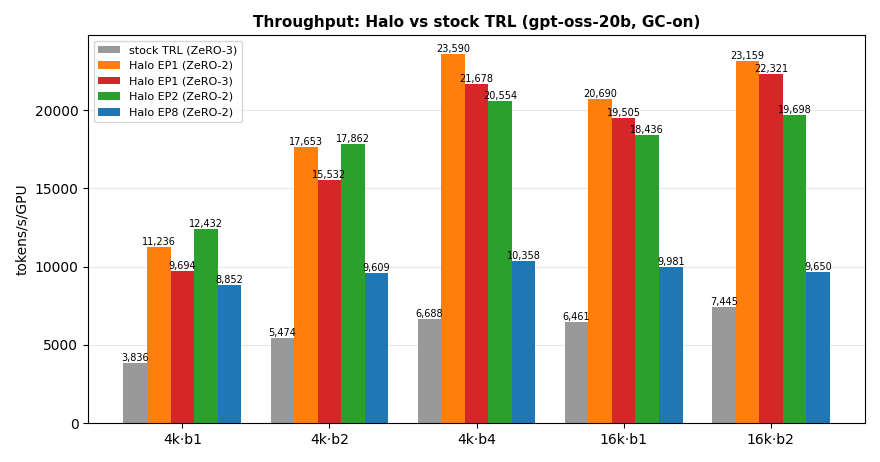
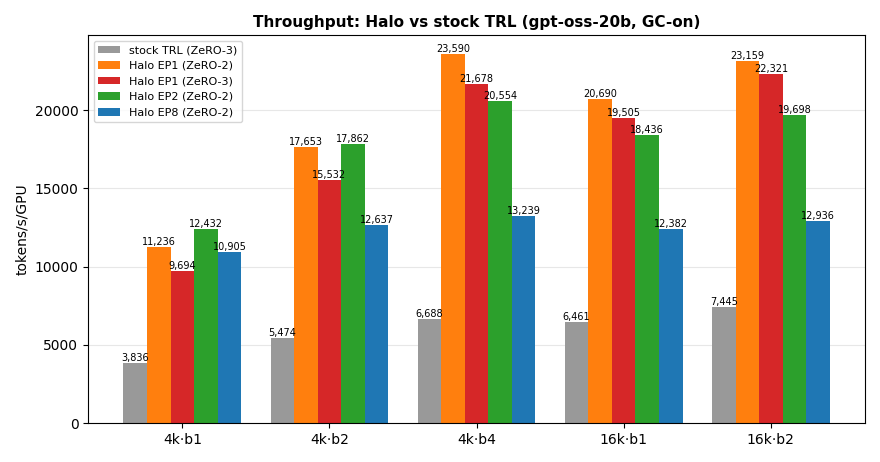
docs: re-measure gpt-oss EP8 figures on the ungated permute

diff --git a/scripts/diagrams/gen_trl_benchmark_charts.py b/scripts/diagrams/gen_trl_benchmark_charts.py
@@ -59,14 +59,14 @@ def throughput_memory_4k16k():
         "Halo EP1 (ZeRO-2)": [11236, 17653, 23590, 20690, 23159],
         "Halo EP1 (ZeRO-3)": [9694, 15532, 21678, 19505, 22321],
         "Halo EP2 (ZeRO-2)": [12432, 17862, 20554, 18436, 19698],
-        "Halo EP8 (ZeRO-2)": [8852, 9609, 10358, 9981, 9650],
+        "Halo EP8 (ZeRO-2)": [10905, 12637, 13239, 12382, 12936],
     }
     mem = {
         "stock TRL (ZeRO-3)": [47.6, 48.2, 50.6, 50.6, 55.6],
         "Halo EP1 (ZeRO-2)": [60.3, 65.5, 75.8, 75.8, 96.5],
         "Halo EP1 (ZeRO-3)": [28.7, 29.3, 37.9, 37.9, 58.6],
         "Halo EP2 (ZeRO-2)": [78.9, 80.5, 85.2, 85.0, 112.0],
-        "Halo EP8 (ZeRO-2)": [25.4, 32.3, 47.2, 48.1, 78.0],
+        "Halo EP8 (ZeRO-2)": [25.5, 33.2, 48.2, 49.0, 80.3],
     }
     for data, ylabel, title, fname, fmt in [
         (

diff --git a/skills/optimize/levers.md b/skills/optimize/levers.md
@@ -3,7 +3,8 @@
 Headline metric is **tokens/s/GPU** (real, non-padding tokens). MFU% and achieved-TFLOPS are opt-in
 diagnostics from `EfficiencyCallback`; MFU% is **not** comparable across GPUs (peak denominator differs —
 use tok/s/GPU or achieved TFLOPS for that). Each figure below carries the shape it was measured at (Blackwell);
-most come from the 2026-10-03 run set (commit 0bc3a22a5, Blackwell image); the source page gives each row's run.
+most come from the 2026-10-03 run set (commit 0bc3a22a5) and the gpt-oss-20b EP8 figures from 2026-10-05
+(commit 0e9a51172), both on the Blackwell image; the source page gives each row's run.
 **Measure every EP/MoE throughput number at batch ≥ 4** — batch 1 is comm-bound and run-to-run noisy.
 
 This page is the single home for this skill's figures. Every number names its source page, relative to
@@ -14,15 +15,15 @@ wins.
 
 | Lever | When to use | Measured effect (doc) | YAML flag / env var | Caveat |
 |---|---|---|---|---|
-| **Grouped GEMM** | Any MoE on SM90+ (auto) | **2.56×** e2e at b4 (4.58× at b1) (Qwen3-30B-A3B EP=2, 2× B300, s8192, GC on); isolated kernel forward ≈**10.2×** (grouped-gemm.md) | `use_grouped_gemm` (default `true`); at `ep_size=1` on a MoE model it still applies the EP wrappers (grouped-GEMM-only mode) | Measure at b≥4 (b1 comm-bound). The loop never measures faster; its gap is smallest at ep8 (4 local experts): grouped +10% at b1, +4.4% at b4 (gpt-oss-20b, s8192). GptOss ETP falls back to loop. |
+| **Grouped GEMM** | Any MoE on SM90+ (auto) | **2.56×** e2e at b4 (4.58× at b1) (Qwen3-30B-A3B EP=2, 2× B300, s8192, GC on); isolated kernel forward ≈**10.2×** (grouped-gemm.md) | `use_grouped_gemm` (default `true`); at `ep_size=1` on a MoE model it still applies the EP wrappers (grouped-GEMM-only mode) | Measure at b≥4 (b1 comm-bound). The loop never measures faster; its gap is smallest at ep8 (4 local experts): grouped +34% at b1, +31% at b4 (gpt-oss-20b, s8192). GptOss ETP falls back to loop. |
 | **Liger CE + RMSNorm/RoPE/SwiGLU** | All training (auto) | Dense **+36% tok/s, −14 GiB** (Qwen3-8B s16k b1); MoE **+39%, −28 GiB** (Qwen3-30B-A3B EP=2 s8192 b4, 2× B300) (liger-kernels.md) | `use_liger_kernel` (default `true`); `liger_kernel_config` per-kernel | Qwen3 MoE, GLM-4.7-Flash, GPT-OSS and Gemma 4 fill the RMSNorm role with torch's fused `F.rms_norm`. SwiGLU/GeGLU auto-OFF where an EP wrapper replaces the only module the applier's GLU patch swaps (upstream-covered families); a toolkit spec naming the dense and shared-expert MLPs keeps it. Liger's fused MoE kernel never runs routed experts: upstream's `swiglu` is forced OFF (even when requested) on a MoE whose experts Halo does not wrap (`ep_size: 1` + `use_grouped_gemm: false`, or no EP layer class). CE and FLCE force-OFF under TP, CP and PP. |
 | **FusedLinearCrossEntropy (FLCE)** | Long-seq OOM at the loss | **−24.3 GB forward at 32k** (Qwen3-8B, 32.2 vs 56.5 GB; ~2.5 GB at 8k); on Qwen3-30B-A3B EP=2 s8192 b4 only −1.5 GiB beyond CE at −5% throughput (liger-kernels.md) | `liger_kernel_config: {cross_entropy: false, fused_linear_cross_entropy: true}` | SFT-only; `logits=None` (no entropy logging); not CP-compatible; OK under EP MoE families + TP-off. |
-| **FA4 (Blackwell attention)** | Any Blackwell run (auto) | Dense **1.19× (s4k) → 1.88× (s16k) → 2.33× (s32k)** vs FA2 (Qwen3-4B b1); MoE **+14%** e2e (gpt-oss-20b ep8 s16k); isolated kernel 3.6–3.9× (flash-attention.md) | auto (`_detect_attention_impl`); override `attn_implementation` | Beta — validate accuracy-sensitive runs. Qwen3.5/3.6, Qwen3-Next and GLM-4 MoE Lite auto-fall-back to SDPA (FA4 backward NaN grads). Hopper keeps FA2+FA3. |
+| **FA4 (Blackwell attention)** | Any Blackwell run (auto) | Dense **1.19× (s4k) → 1.88× (s16k) → 2.33× (s32k)** vs FA2 (Qwen3-4B b1); MoE **+17%** e2e (gpt-oss-20b ep8 s16k); isolated kernel 3.6–3.9× (flash-attention.md) | auto (`_detect_attention_impl`); override `attn_implementation` | Beta — validate accuracy-sensitive runs. Qwen3.5/3.6, Qwen3-Next and GLM-4 MoE Lite auto-fall-back to SDPA (FA4 backward NaN grads). Hopper keeps FA2+FA3. |
 | **Packing (variable-length data)** | avg seq << max_length | **14.5×** at ~75% padding waste (Qwen3-30B-A3B EP=2, b2, FA2) (padding-free-collator.md) | `packing: true` (mutually exclusive with `padding_free`); `packing_strategy: bfd` | No benefit when avg ≈ max_length (all collators tie ~1%). Rejected under CP — take the padded collator (`pad_to_multiple_of=cp_size`) there. |
 | **Padding-free collator** | Want to skip padding FLOPS but not cross-seq packing | **4.5×** real-throughput at ~75% waste, same shape as the packing row (padding-free-collator.md) | `padding_free: true` + a varlen attention impl (`flash_attention_2/3/4`) | NOT CP-compatible; smaller win than packing; a non-varlen impl (SDPA, eager, flex) is refused. SFT + SMPO only. |
-| **Gradient checkpointing OFF** | Batch/seq fits un-checkpointed | **1.30×** (gpt-oss-20b ep8 b4 s4096: 13,489 vs 10,358 tok/s/GPU); **+26–31%** across the ep8 b1 sequence sweep (4k–32k); ~2× memory (throughput-benchmarks.md) | `gradient_checkpointing: false` | Only when activations fit (ep8 b1 GC-off reaches s32k at 200 GiB on the elastic default). Keep ON for long seq / big batch / FSDP. |
+| **Gradient checkpointing OFF** | Batch/seq fits un-checkpointed | **1.29×** (gpt-oss-20b ep8 b4 s4096: 17,018 vs 13,239 tok/s/GPU); **+25–32%** across the ep8 b1 sequence sweep (4k–32k); ~2× memory (throughput-benchmarks.md) | `gradient_checkpointing: false` | Only when activations fit (ep8 b1 GC-off reaches s32k at 159 GiB on the elastic default). Keep ON for long seq / big batch / FSDP. |
 | **Push seq × batch** | EP throughput at low token counts | Batch is the dominant EP lever: **qwen3.5-35b ep2 b1→b4 = 2.5×** (6,692 → 16,447 tok/s/GPU, s4096; ep8 b1→b4 = 1.8×); read TFLOPS not MFU% (throughput-benchmarks.md) | raise `per_device_train_batch_size`, then `gradient_accumulation_steps`, then `max_length` | Bounded by memory; use GC / FLCE / EP degree to make room. |
-| **Min EP degree that fits** | Pure EP, choosing size | Fewer EP ranks = more local params + larger expert GEMMs; gpt-oss-20b ep1 dense FSDP tops the TFLOPS table (**3,673** nominal TFLOPS / 28,700 tok/s/GPU at b4 s4096 GC-off, vs ep8 **349** / 10,007 at b2 s16384) (throughput-benchmarks.md) | `--expert_parallel_size`; use **ep2 or ep8** on 8 GPUs (gpt-oss-20b: ep8 keeps ~4.2B params local vs ep2 ~11.4B) | **ep4 is rejected at config time** on 8 GPUs — multi-group >2-rank pure EP within one NVLink domain would race the DeepEP combine (ep4 on 4 GPUs is fine). Finer expert sharding on 8 GPUs → **EP+ETP** (`ep4+etp2`), not EP+TP. Rule and mechanism: the `parallelism` skill (`matrix.md`, row *Multi-group >2-rank EP on one NVLink domain*). |
+| **Min EP degree that fits** | Pure EP, choosing size | Fewer EP ranks = more local params + larger expert GEMMs; gpt-oss-20b ep1 dense FSDP tops the TFLOPS table (**3,673** nominal TFLOPS / 28,700 tok/s/GPU at b4 s4096 GC-off, vs ep8 **451** / 12,936 at b2 s16384) (throughput-benchmarks.md) | `--expert_parallel_size`; use **ep2 or ep8** on 8 GPUs (gpt-oss-20b: ep8 keeps ~4.2B params local vs ep2 ~11.4B) | **ep4 is rejected at config time** on 8 GPUs — multi-group >2-rank pure EP within one NVLink domain would race the DeepEP combine (ep4 on 4 GPUs is fine). Finer expert sharding on 8 GPUs → **EP+ETP** (`ep4+etp2`), not EP+TP. Rule and mechanism: the `parallelism` skill (`matrix.md`, row *Multi-group >2-rank EP on one NVLink domain*). |
 | **AdamWBF16 + stochastic rounding** | Any bf16 training (auto) | **6 B/param** (vs 12 fp32 AdamW); step −49% vs `adamw_torch_fused`; loss gap to fp32 master ~8e-5 (~5× tighter than weight-only SR) (bf16-optimizer.md) | auto from `bf16: true` | Auto-enable skipped under accelerate-managed replicated DDP — a conservative default outside the validated FSDP/EP/TP/HSDP matrix, not a correctness limit (the SR seed is rank-identical, so replicated params round the same way); `bf16_optimizer: true` opts in. |
 | **fp32_grad_reduce** | Many-rank / multi-node | ~**2.2×** tighter grad-reduce at world=8 (0.37%→0.17% error); grows with scale (bf16-optimizer.md) | `fp32_grad_reduce: true` | Keeps 6 B/param storage; ~2× cost on the reduce-scatter/all-reduce only. Off by default. `fp32_non_ep_params` puts the FSDP2 reduce in fp32 too; the EP/TP/QLoRA bucketed reduces follow this flag alone. |
 | **Deferred FSDP2 gradient reduce** | `gradient_accumulation_steps > 1` with memory headroom; slow inter-node fabric | Packed SFT, 4k b2 GA4 GC on: Qwen3-8B **+5.0%** on 8× B300 NVLink (**+9.3%** with `fsdp_reshard_after_backward: false`), **+9%** DP / **+13%** HSDP across 2 nodes over EFA, **+52%** on TCP sockets; Qwen3-30B-A3B ep1 **+12.4%** (../parallelism/data-parallelism.md) | `fsdp_defer_grad_sync: true` | Holds one unsharded gradient copy per GPU across the window: Qwen3-8B +13.4 GiB peak, ep1 Qwen3-30B-A3B +50 GiB (every expert). torchrun FSDP2 only; rejected under PP, TP at `data_parallel_size==1`, QLoRA, and ZeRO-3 (`fsdp_reshard_after_forward: true` — defer under ZeRO-2). Nothing at GA 1. |

diff --git a/agent-docs/optimization/halo-vs-stock-trl.md b/agent-docs/optimization/halo-vs-stock-trl.md
@@ -27,7 +27,7 @@ The baseline gets the strongest stock options — ZeRO-3 and Liger's FLCE, which
 
 ## Throughput & memory (4k–16k)
 
-*8× B300 · 2026-10-03 (stock TRL 2026-10-04, mean of 2 runs) · commit 0bc3a22a5 · Blackwell image. GC-on · grouped GEMM · TRL ZeRO-3 · Halo ZeRO-2 (EP1 also at ZeRO-3) · elastic.* **tok/s/GPU · peak GiB:**
+*8× B300 · 2026-10-03 at commit 0bc3a22a5 (stock TRL 2026-10-04, mean of 2 runs; Halo EP8 2026-10-05 at commit 0e9a51172, median of 2) · Blackwell image. GC-on · grouped GEMM · TRL ZeRO-3 · Halo ZeRO-2 (EP1 also at ZeRO-3) · elastic.* **tok/s/GPU · peak GiB:**
 
 ![Throughput: Halo vs stock TRL, 4k/16k](../assets/benchmarks/throughput_4k16k.png)
 
@@ -35,16 +35,16 @@ The baseline gets the strongest stock options — ZeRO-3 and Liger's FLCE, which
 
 | seq·b | stock TRL (z3) | Halo EP1 (z2) | Halo EP1 (z3) | Halo EP2 (z2) | Halo EP8 (z2) |
 |---|---|---|---|---|---|
-| 4k·b1 | 3,836 · 47.6 | 11,236 · 60.3 | 9,694 · **28.7** | **12,432 · 78.9** | 8,852 · 25.4 |
-| 4k·b2 | 5,474 · 48.2 | 17,653 · 65.5 | 15,532 · **29.3** | **17,862 · 80.5** | 9,609 · 32.3 |
-| 4k·b4 | 6,688 · 50.6 | **23,590 · 75.8** | 21,678 · 37.9 | 20,554 · 85.2 | 10,358 · 47.2 |
-| 16k·b1 | 6,461 · 50.6 | **20,690 · 75.8** | 19,505 · 37.9 | 18,436 · 85.0 | 9,981 · 48.1 |
-| 16k·b2 | 7,445 · 55.6 | **23,159 · 96.5** | 22,321 · 58.6 | 19,698 · 112.0 | 9,650 · 78.0 |
+| 4k·b1 | 3,836 · 47.6 | 11,236 · 60.3 | 9,694 · **28.7** | **12,432 · 78.9** | 10,905 · 25.5 |
+| 4k·b2 | 5,474 · 48.2 | 17,653 · 65.5 | 15,532 · **29.3** | **17,862 · 80.5** | 12,637 · 33.2 |
+| 4k·b4 | 6,688 · 50.6 | **23,590 · 75.8** | 21,678 · 37.9 | 20,554 · 85.2 | 13,239 · 48.2 |
+| 16k·b1 | 6,461 · 50.6 | **20,690 · 75.8** | 19,505 · 37.9 | 18,436 · 85.0 | 12,382 · 49.0 |
+| 16k·b2 | 7,445 · 55.6 | **23,159 · 96.5** | 22,321 · 58.6 | 19,698 · 112.0 | 12,936 · 80.3 |
 
 - **EP1 and EP2 lead at 2.6–3.5× stock TRL** across every short/mid config, and the gap holds under batch
-  scaling. EP8 gains least from batch (4k: 8,852 → 10,358 tok/s/GPU from b1 to b4) and loses at 16k
-  (9,981 → 9,650 from b1 to b2): its dispatch cost grows with tokens/rank.
-- **EP8 trades throughput for memory** — 1.3–2.3× TRL at ~½ its memory (25.4 vs 47.6 GiB at 4k·b1).
+  scaling. EP8 gains least from batch (4k: 10,905 → 13,239 tok/s/GPU from b1 to b4; 16k: +4.5% from b1
+  to b2): its dispatch cost grows with tokens/rank.
+- **EP8 trades throughput for memory** — 1.7–2.8× TRL at ~½ its memory (25.5 vs 47.6 GiB at 4k·b1).
 - **EP1 z3 isolates the framework gap** to AdamWBF16 + Halo's FSDP2+EP wrapper: both sides shard every
   param 8-way with the same kernel, and EP1 still leads 2.5× (4k·b1) to 3.2× (4k·b4) on throughput, and
   on memory everywhere but 16k·b2 (58.6 vs 55.6 GiB). **Prefer z2 at short sequence, z3 when memory-tight.**
@@ -59,15 +59,15 @@ experts through `torch.nn.functional.grouped_mm`). The per-expert loop is opt-in
 (`--experts_impl eager`, i.e. transformers' `experts_implementation`, for TRL; `--no_grouped_gemm` for
 Halo).
 
-*8× B300 · 2026-10-03 · commit 0bc3a22a5 · Blackwell image. 4k·b1 · GC-on · Halo z2* — tok/s/GPU:
+*8× B300 · 2026-10-03 · commit 0bc3a22a5 (EP8 row 2026-10-05 · commit 0e9a51172) · Blackwell image. 4k·b1 · GC-on · Halo z2* — tok/s/GPU:
 
 | | per-expert loop | grouped GEMM | uplift |
 |---|---|---|---|
 | Halo EP1 (32 experts/rank) | 6,005 | 11,236 | +87% |
 | Halo EP2 (16/rank) | 6,508 | 12,432 | +91% |
-| Halo EP8 (4/rank) | 7,521 | 8,852 | +18% |
+| Halo EP8 (4/rank) | 7,514 | 10,905 | +45% |
 
-The uplift shrinks once a rank holds few experts (+18% at EP8, where the loop's per-shape tile fits the
+The uplift shrinks once a rank holds few experts (+45% at EP8, where the loop's per-shape tile fits the
 larger per-expert `M`). **EP token distribution is the bigger lever** — Halo's *loop* at EP1 (6,005)
 already beats TRL's `grouped_mm` (3,836). Kernel-side detail:
 [Grouped GEMM](grouped-gemm.md#grouped-vs-the-loop-path).
@@ -100,20 +100,19 @@ already 16–32k, so FLCE is within noise (≤1%): it is a dense-path lever. Per
 
 ## Gradient checkpointing on vs off
 
-GC-off buys Halo **+11–31%** at up to 2.2× peak memory (EP8 z2 16k·b1: 48.1 → 103.7 GiB). Stock TRL gains
-only +5–6%, so Halo's lead widens GC-off.
+GC-off buys Halo **+11–32%** at up to 2× peak memory (EP8 z2 16k·b1: 49.0 → 96.4 GiB). Stock TRL gains
+only +5–9%, so Halo's lead widens GC-off.
 
-*8× B300 · 2026-10-03 · commit 0bc3a22a5 · Blackwell image. b1 · GC-off, tok/s/GPU (the GC-on
+*8× B300 · 2026-10-03 · commit 0bc3a22a5 (Halo EP8 2026-10-05 · commit 0e9a51172) · Blackwell image. b1 · GC-off, tok/s/GPU (the GC-on
 baseline is the 4k–16k table above):*
 
 | seq | stock TRL (z3) | Halo EP1 (z2) | Halo EP2 (z2) | Halo EP8 (z2) |
 |---|---|---|---|---|
-| 4k | 4,048 | 12,484 | 14,988 | 11,563 |
-| 16k | 7,010 | 25,395 | 22,729 | 12,531 |
+| 4k | 4,048 | 12,484 | 14,988 | 13,885 |
+| 16k | 7,010 | 25,395 | 22,729 | 16,335 |
 
-It is a 4k–32k lever only: EP8 32k·b1 GC-off trains on the default elastic transport, but its 199.7 GiB
-peak already crowds a B300's 288 GB (268 GiB)
-([Throughput Benchmarks](throughput-benchmarks.md#where-the-ep-steps-time-goes-gpt-oss-20b-ep8-b1s4096-8-b300-fa4)),
+It is measured as a 4k–32k lever: EP8 32k·b1 GC-off trains on the default elastic transport at a 159.4 GiB
+peak ([Throughput Benchmarks](throughput-benchmarks.md#where-the-ep-steps-time-goes-gpt-oss-20b-ep8-b1s4096-8-b300-fa4)),
 and past ~64k tokens/rank nothing fits GC-off.
 
 ## Long context: 64k → 256k
@@ -198,10 +197,12 @@ CP needs `cp_size` to divide Qwen's 4 KV heads, so 64k splits with EP8+CP4. Dens
 ## Convergence
 
 200 steps on the same seeded data, same global batch (16), constant LR; 8× B300, 2026-10-03, commit
-0bc3a22a5, Blackwell image. Stock TRL (ZeRO-3), Halo dense (EP1), Halo EP2 and Halo EP8 all reach
-the same loss — **~0.00205 at step 200** (0.002048–0.002051), within 0.6% of each other by step 100. Expert
-Parallelism, grouped GEMM, and AdamWBF16 stochastic rounding preserve the optimization dynamics, so the
-throughput lead costs nothing.
+0bc3a22a5 (Halo EP8 2026-10-05, commit 0e9a51172, median of four runs), Blackwell image. Stock TRL
+(ZeRO-3), Halo dense (EP1), Halo EP2 and Halo EP8 all reach the same loss — **~0.00205 at step 200**
+(0.002048–0.002051), within 0.8% of each other by step 100. One of the four EP8 runs took a loss spike at
+step 5 and was still 35% higher at step 100, reaching 0.002052 by step 200. Expert Parallelism, grouped
+GEMM, and AdamWBF16 stochastic rounding preserve the optimization dynamics, so the throughput lead costs
+nothing.
 
 ## Reproduce
 

diff --git a/human-docs/performance.md b/human-docs/performance.md
@@ -5,25 +5,25 @@ do nothing at MoE shapes.
 
 ## Rough numbers
 
-Measured 2026-10-03 on B300 (Blackwell) at commit 0bc3a22a5 with the
-Blackwell image, bf16, Liger and grouped GEMM on, Flash Attention 4 where the
-family takes it (Qwen3.5 falls back to SDPA). Tokens per second per GPU, so a
-number scales by the GPU count:
+Measured 2026-10-03 on B300 (Blackwell) at commit 0bc3a22a5 (the GPT-OSS `ep8`
+rows 2026-10-05 at commit 0e9a51172) with the Blackwell image, bf16, Liger and
+grouped GEMM on, Flash Attention 4 where the family takes it (Qwen3.5 falls back
+to SDPA). Tokens per second per GPU, so a number scales by the GPU count:
 
 | Model | Shape | tok/s/GPU |
 | --- | --- | --- |
 | Qwen3-4B dense | 1 GPU, batch 16 × 2048, no checkpointing | 41,000 |
 | GPT-OSS 20B | 8 GPUs, `ep1`, batch 4 × 4096, no checkpointing | 28,700 |
 | Qwen3.5-35B-A3B | 8 GPUs, `ep2`, batch 4 × 4096, checkpointing on | 16,400 |
-| GPT-OSS 20B | 8 GPUs, `ep8`, batch 4 × 4096, checkpointing on | 10,400 |
-| GPT-OSS 20B, 32k context | 8 GPUs, `ep8 + cp8`, checkpointing on | 7,600 |
+| GPT-OSS 20B | 8 GPUs, `ep8`, batch 4 × 4096, checkpointing on | 13,200 |
+| GPT-OSS 20B, 32k context | 8 GPUs, `ep8 + cp8`, checkpointing on | 9,000 |
 
 Two things to read out of that table. Expert parallelism costs throughput — at
-batch 4, 4k and checkpointing on for both, `ep1` runs about 2.3× `ep8` on the same
-model (23,590 vs 10,358 tok/s/GPU; the `ep1` row above has checkpointing off) —
+batch 4, 4k and checkpointing on for both, `ep1` runs about 1.8× `ep8` on the same
+model (23,590 vs 13,239 tok/s/GPU; the `ep1` row above has checkpointing off) —
 because it trades local parameters for all-to-all traffic, so pick the
 *lowest* EP that fits rather than the largest your GPUs allow. And context parallelism is a way to afford a
-long sequence, not a way to go faster: it holds memory to 24–42 GiB from 16k to
+long sequence, not a way to go faster: it holds memory to 25–42 GiB from 16k to
 64k tokens and buys no speed. Sharding buys capacity — a 119B MoE trains on four
 GPUs at `ep2 + etp2` — and you pay for it in tokens per second.
 
@@ -36,11 +36,11 @@ latency-bound and the GPUs are waiting, not computing. Turn on
 
 | Lever | What it buys |
 | --- | --- |
-| Bigger `M` — raise `per_device_train_batch_size` or `max_length` | the single largest effect; batch 1 → 4 at 4k is 1.2–2.5× on MoE, least at high EP, and at 16k `ep8` loses throughput under batch (its dispatch grows with tokens per rank). Fill the global batch with `gradient_accumulation_steps`, not more parallelism |
-| `gradient_checkpointing: false` when activations fit | +30% on GPT-OSS `ep8` at 4k, at roughly double the peak memory |
+| Bigger `M` — raise `per_device_train_batch_size` or `max_length` | the single largest effect; batch 1 → 4 at 4k is 1.2–2.5× on MoE, least at high EP, and at 16k `ep8` gains only ~5% from batch 2 (its dispatch grows with tokens per rank). Fill the global batch with `gradient_accumulation_steps`, not more parallelism |
+| `gradient_checkpointing: false` when activations fit | +29% on GPT-OSS `ep8` at 4k, at about 1.8× the peak memory |
 | `packing: true` | 14.5× on a corpus averaging a quarter of `max_length` (`padding_free: true`: 4.5×); nothing when rows already fill it |
 | `use_grouped_gemm: true` (default on SM90+) | 2.6–4.6× end-to-end on Qwen3-30B-A3B at `ep2` (2× B300, 8k, batch 4 to 1) — one batched expert matmul instead of a loop |
-| Flash Attention 4 (auto on Blackwell) | 1.2× FA2 at 4k rising to 2.3× at 32k on dense; ~+14% on MoE, where all-to-all dominates |
+| Flash Attention 4 (auto on Blackwell) | 1.2× FA2 at 4k rising to 2.3× at 32k on dense; ~+17% on MoE, where all-to-all dominates |
 | `use_liger_kernel: true` (default) | +39% and 28 GiB on Qwen3-30B-A3B at `ep2` (2× B300, 8k, batch 4), +6.6% on Qwen3.5-35B-A3B; add `liger_kernel_config: {fused_linear_cross_entropy: true}` past ~16k tokens, which trades 7–20% of speed for 14–30 GiB on GPT-OSS `ep1` (the cost shrinks as the sequence grows) |
 | `AdamWBF16` (automatic with `bf16: true`) | weights and optimizer state in 6 bytes/param where fp32-state AdamW needs 12, and about half the step time of `adamw_torch_fused` |
 | `fsdp_defer_grad_sync: true` and `fsdp_reshard_after_backward: false`, with `gradient_accumulation_steps > 1` | one gradient reduce and one parameter re-gather per optimizer step instead of per microstep. On one 8-GPU node the deferred reduce gives +5% on Qwen3-8B (+9% with both knobs) and +12% on Qwen3-30B-A3B at `ep_size: 1`; across two nodes over EFA it gives +9–13% on its own. Each keeps an unsharded copy per GPU (Qwen3-8B: +13 GiB for the gradients). The config refuses both under `fsdp_reshard_after_forward: true` (ZeRO-3). [Details](../agent-docs/parallelism/data-parallelism.md) ↗ |
@@ -80,9 +80,9 @@ all 20.7B parameters every micro-step, a fixed cost a short step cannot hide,
 while its AdamW keeps 12 bytes per parameter of fp32 state where `AdamWBF16`
 keeps 6. At the same ZeRO-3 sharding and expert kernel, dense Halo still leads
 2.5–3.2×. The `ep8` shape trades some of that speed back for memory:
-1.3–2.3× TRL at about half its footprint. None of it costs convergence — TRL,
+1.7–2.8× TRL at about half its footprint. None of it costs convergence — TRL,
 dense Halo, `ep2` and `ep8` reach the same loss over 200 seeded steps, within
-0.6% of each other by step 100.
+0.8% of each other by step 100.
 
 ## Going deeper
 

diff --git a/agent-docs/optimization/grouped-gemm.md b/agent-docs/optimization/grouped-gemm.md
@@ -20,20 +20,20 @@ Grouped collapses those to `P` nodes (Qwen3.6: 256×2=512 → 2), so far fewer s
 
 `use_grouped_gemm: false` runs the per-expert loop. Grouped wins every measured cell below; what narrows its lead:
 
-**1. Few local experts per rank (primary lever).** Grouped's advantage is fusing launches across a rank's `num_experts / ep_size` local experts. Many (low EP) → large saving. Few (high EP) → a small one, since the loop's per-shape CUTLASS tile fits each expert's actual per-expert `M`.
+**1. Few local experts per rank (primary lever).** Grouped's advantage is fusing launches across a rank's `num_experts / ep_size` local experts. Many (low EP) → large saving. Few (high EP) → a smaller one, since the loop's per-shape CUTLASS tile fits each expert's actual per-expert `M`.
 
 Per-expert `M = ep_size × tokens_per_rank × top_k / num_experts`: tokens pool across the dispatch group, so per-rank rows `tokens_per_rank × top_k` are EP-invariant and M grows with `ep_size`. M modulates the trend: `grouped_mm` runs one shared ~128-wide M tile for all groups, so its edge is largest at small M and erodes as M grows.
 
-gpt-oss-20b (32 experts, top-4, seq 8192, 8× B300, FA4, GC on), grouped vs loop, plus Qwen3-30B-A3B (128 experts, ep2 → 64 local/rank; 2× B300, seq 8192, GC on: 14,536 vs 3,176 tok/s/GPU at b1, 18,956 vs 7,415 at b4) as the high-local-count anchor. Measured 2026-10-03 at commit 0bc3a22a5 on the Blackwell image, except the Qwen3.5 row (v1.0.0):
+gpt-oss-20b (32 experts, top-4, seq 8192, 8× B300, FA4, GC on), grouped vs loop, plus Qwen3-30B-A3B (128 experts, ep2 → 64 local/rank; 2× B300, seq 8192, GC on: 14,536 vs 3,176 tok/s/GPU at b1, 18,956 vs 7,415 at b4) as the high-local-count anchor. Measured 2026-10-03 at commit 0bc3a22a5 on the Blackwell image, except the gpt-oss-20b ep8 row (2026-10-05, commit 0e9a51172, median of 2) and the Qwen3.5 row (v1.0.0):
 
 | Model | EP | local experts/rank | b1 | b2 | b4 |
 |---|----|:------------------:|:---:|:---:|:---:|
 | gpt-oss-20b | ep2 | 16 | grouped +78% | — | +41% |
-| gpt-oss-20b | ep8 | 4 | grouped +10% | +7.1% | +4.4% |
+| gpt-oss-20b | ep8 | 4 | grouped +34% | +34% | +31% |
 | Qwen3-30B | ep2 | 64 | grouped +358% | — | +156% |
 | Qwen3.5-35B | ep2 | 128 | — | — | grouped +137% |
 
-Local-expert *count* is the primary lever; batch (per-expert M) shrinks the margin. **Rule: keep grouped (the default); at these shapes the loop is never faster, and the gap narrows only at high EP with large batches.** The roofline reasoning is in [GPU Training Theory §2](../reference/gpu-training-theory.md#worked-example--why-small-per-expert-m-is-slow).
+Local-expert *count* is the primary lever; batch (per-expert M) shrinks the margin. **Rule: keep grouped (the default); at these shapes the loop is never faster, and the gap is smallest at high EP with large batches (+31% at ep8 b4).** The roofline reasoning is in [GPU Training Theory §2](../reference/gpu-training-theory.md#worked-example--why-small-per-expert-m-is-slow).
 
 The 288-expert rosters (GLM-5.3-Flash, Step-3.7-Flash; top-8) sit inside the grouped-wins regime too, between the measured anchors: `ep8` holds 36 local experts at per-expert M = 1,820 (8192 tokens/rank) to 7,282 (32k), `ep16` 18 at 3,641 (8192 — the cross-node ceiling). Derived from the table, not measured.
 

diff --git a/agent-docs/optimization/flash-attention.md b/agent-docs/optimization/flash-attention.md
@@ -70,7 +70,7 @@ The end-to-end step win is a function of attention's share of the step, which gr
 
 At 4k batch-1 the step is overhead-bound, so FA4 stays close to FA2 (1.19×); the gap opens with length and reaches 2.3× at 32k. SDPA (Blackwell-tuned cuDNN kernel) leads FA4 by 9% at 4k and is within 3% of it from 16k, so SDPA is a fine fallback for plain dense models. flex trails both at every length; it ties FA2 at 4k (within its own 7.9% run spread) and beats it from 16k.
 
-On sparse MoE the step is dominated by expert GEMM + DeepEP all-to-all, so the kernel speedup is only **+14%** end-to-end. gpt-oss-20b, EP=8, seq 16,384, batch 1, GC on, 8× B300 (2026-10-03, commit 0bc3a22a5, Blackwell image): FA4 9,981 vs FA2 8,737 tok/s/GPU (1.14×); the FA4 arm is the s16384 row of the ep8 sequence sweep in [Throughput Benchmarks](throughput-benchmarks.md). FA4 is the shipped default for GptOss SFT; SDPA also dispatches once sinks are reset but lacks FA4's native sink/sliding-window/softcap handling.
+On sparse MoE the step is dominated by expert GEMM + DeepEP all-to-all, so the kernel speedup is only **+17%** end-to-end. gpt-oss-20b, EP=8, seq 16,384, batch 1, GC on, 8× B300 (2026-10-05, commit 0e9a51172, Blackwell image, median of 2): FA4 12,382 vs FA2 10,627 tok/s/GPU (1.17×); the FA4 arm is the s16384 row of the ep8 sequence sweep in [Throughput Benchmarks](throughput-benchmarks.md). FA4 is the shipped default for GptOss SFT; SDPA also dispatches once sinks are reset but lacks FA4's native sink/sliding-window/softcap handling.
 
 EP/long-context throughput tables live in [Throughput Benchmarks](throughput-benchmarks.md), which already run the FA4 default.
 
@@ -125,12 +125,12 @@ A Bailing run therefore sets `attn_implementation: sdpa` itself; an unset or fla
 
 Every one of them takes that default only under `reset_sinks: true`. With live gpt-oss sinks (`reset_sinks: false`) the default drops and the model config passes through untouched, since SDPA drops the sink column and would be rejected outright. SFT keeps the auto-selected FA4: a packed batch takes its varlen path, kept fast by the `max_seqlen` int-coercion.
 
-That default costs throughput at the lengths these methods actually run. Measured on 8× B300 with `benchmark_smpo_ep.py`, which does *not* apply it (2026-10-04, training code at commit 0bc3a22a5, Blackwell image; auto = FA4; mean of 2 runs). The SMPO collator emits no `input_ids`, so the callback's tokens/s is a padded-length estimate; the table gives the step-time speedup of auto over SDPA:
+That default costs throughput at the lengths these methods actually run. Measured on 8× B300 with `benchmark_smpo_ep.py`, which does *not* apply it (2026-10-04, training code at commit 0bc3a22a5; the gpt-oss-20b rows 2026-10-05 at commit 0e9a51172; Blackwell image; auto = FA4; mean of 2 runs). The SMPO collator emits no `input_ids`, so the callback's tokens/s is a padded-length estimate; the table gives the step-time speedup of auto over SDPA:
 
 | model | seq | auto vs SDPA |
 |---|---|---|
-| gpt-oss-20b ep8 | 4096 | **1.41×** |
-| gpt-oss-20b ep8 | 8192 | **1.40×** |
+| gpt-oss-20b ep8 | 4096 | **1.36×** |
+| gpt-oss-20b ep8 | 8192 | **1.42×** |
 | qwen3-30b-a3b ep8 | 4096 | **1.17×** |
 | qwen3-30b-a3b ep8 | 8192 | **1.14×** |
 | qwen3-8b ep1 (dense) | 4096 | **1.26×** |

diff --git a/README.md b/README.md
@@ -214,17 +214,18 @@ A typical run is: **pick an `examples/` config → `halo launch <method> <config
 ## Benchmarks
 
 Benchmarks below were run on B300, 8 GPUs unless a row says otherwise, on 2026-10-03 at commit 0bc3a22a5 with
-the Blackwell image; the 256k-context row and the FA4 kernel figure are from v1.0.0. The stock TRL baseline
-uses `trl.SFTTrainer` with Transformers v5 and FSDP2 ZeRO-3, with the same model, data, bf16
-precision, FlashAttention 4, Liger kernels, and grouped GEMM.
+the Blackwell image (the EP8 and 16k EP8+CP8 figures on 2026-10-05 at commit 0e9a51172); the 256k-context
+row and the FA4 kernel figure are from v1.0.0. The stock TRL baseline uses `trl.SFTTrainer` with Transformers
+v5 and FSDP2 ZeRO-3, with the same model, data, bf16 precision, FlashAttention 4, Liger kernels, and grouped
+GEMM.
 
 | Result | Configuration |
 |---|---|
-| **2.6–3.5× stock TRL throughput** | gpt-oss-20b, 4k–16k; EP2 / dense EP1 (EP8: 1.3–2.3×). Loss matches the baseline to within 0.6% by step 100. |
+| **2.6–3.5× stock TRL throughput** | gpt-oss-20b, 4k–16k; EP2 / dense EP1 (EP8: 1.7–2.8×). Loss matches the baseline to within 0.8% by step 100. |
 | **28,700 tok/s/GPU** | gpt-oss-20b, dense EP1, 4k, batch 4, GC off — ~230k tok/s across 8 GPUs. |
 | **16,447 tok/s/GPU at 1,908 TFLOPS** | Qwen3.5-35B-A3B, 4k, batch 4, EP2 — the highest achieved TFLOPS of any EP>1 run benchmarked. |
 | **Up to 256k context** | gpt-oss-20b; dense EP1 is 2.1× faster than TRL at 64k and 1.28× at 256k. EP8+CP8 and dense CP-only run at about half TRL's per-GPU memory. |
-| **24–76 GiB/GPU on the same 16k workload** | EP8+CP8: 24.4 GiB at 6,716 tok/s/GPU. Dense EP1: 75.8 GiB at 20,690 tok/s/GPU. |
+| **25–76 GiB/GPU on the same 16k workload** | EP8+CP8: 24.6 GiB at 7,149 tok/s/GPU. Dense EP1: 75.8 GiB at 20,690 tok/s/GPU. |
 | **2.56× Grouped GEMM** | Qwen3-30B-A3B, 2× B300, EP2, 8k, batch 4, GC on; 4.58× at batch 1. |
 | **3.6–3.9× FA4 kernel throughput** | FA4 vs FA2 on the isolated kernel (B2×S8192, head_dim 128); up to 2.3× end-to-end on dense Qwen3-4B at 32k (1× B300). |
 

diff --git a/agent-docs/infrastructure/deepep.md b/agent-docs/infrastructure/deepep.md
@@ -68,10 +68,10 @@ with their defaults in [Environment variables](../reference/configuration-refere
 `CUDA_DEVICE_MAX_CONNECTIONS=1` (the image `ENV`) serializes device work onto one hardware queue. It is a
 correctness setting: without it, EP with more than one dispatch group per NVLink domain can deadlock the
 combine barrier against FSDP2's DP-wide collectives, and the trainer warns at startup when it is not `1`.
-It has no measurable throughput effect: against `8`, `ep_size=8` reads +0.2% / −0.3% and `ep_size=2`
-reads +0.2% (8× B300, gpt-oss-20b, seq 4096, batch 1, GC on; 2026-10-03, commit 0bc3a22a5, Blackwell
-image). It is latched at `cuInit`, so a launch outside the image exports it before the process starts, and
-it does not make the racy single-domain multi-group shape safe ([below](#ep-grouping-what-is-reliable)).
+It costs no throughput: against `8`, `ep_size=8` reads +1.5% (2026-10-05, commit 0e9a51172, median of
+2) and `ep_size=2` +0.2% (2026-10-03, commit 0bc3a22a5); 8× B300, gpt-oss-20b, seq 4096, batch 1, GC on,
+Blackwell image. It is latched at `cuInit`, so a launch outside the image exports it before the process
+starts, and it does not make the racy single-domain multi-group shape safe ([below](#ep-grouping-what-is-reliable)).
 
 **These must agree across every rank of the job**: `HALO_EP_CAPACITY_DEDUP`,
 `HALO_DEEPEP_GPU_TIMEOUT_SECONDS`, `HALO_DEEPEP_NUM_SMS`, `HALO_DEEPEP_NUM_QPS`,

diff --git a/agent-docs/reference/gpu-training-theory.md b/agent-docs/reference/gpu-training-theory.md
@@ -331,7 +331,7 @@ The two moments cost 4–8 B/param. Each variant trades one axis:
 
 ### Gradient checkpointing
 
-GC keeps only a few activation checkpoints and recomputes the rest in the backward. Memory drops sharply, so longer sequences fit; the cost is one extra forward over the checkpointed regions, `6P → ~8P` — measured +30% wall-clock on gpt-oss-20b ep8 (batch 4, seq 4096, 8× B300), under the `8P/6P ≈ +33%` ceiling because only checkpointed regions recompute and comm is unchanged ([Throughput Benchmarks](../optimization/throughput-benchmarks.md)).
+GC keeps only a few activation checkpoints and recomputes the rest in the backward. Memory drops sharply, so longer sequences fit; the cost is one extra forward over the checkpointed regions, `6P → ~8P` — measured +29% wall-clock on gpt-oss-20b ep8 (batch 4, seq 4096, 8× B300), under the `8P/6P ≈ +33%` ceiling because only checkpointed regions recompute and comm is unchanged ([Throughput Benchmarks](../optimization/throughput-benchmarks.md)).
 
 The corollary: if the batch fits without GC, turning it off is a free speedup, so keep GC on only when you need the memory. **Selective recomputation** (Megatron) checkpoints only the regions with the best memory-saved-per-recompute-FLOP; FlashAttention is already this idea specialized to the attention block.
 

diff --git a/agent-docs/reference/why-this-framework.md b/agent-docs/reference/why-this-framework.md
@@ -54,7 +54,7 @@ figures ran on H100; the Megatron-LM figures and the last bullet ran on the same
 2.3× the bf16 peak of H100, so read a cross-GPU row as a ceiling on the gap, not the gap.
 
 - **gpt-oss-20b, seq 4096, bf16.** Halo, measured 2026-10-03 at commit 0bc3a22a5: 28,700 tok/s/GPU at
-  EP1 (8× B300, batch 4, GC off; 23,590 GC on) and 10,358 at EP8 (batch 4, GC on, 47 GiB). NeMo AutoModel reports 13,058 on 8× H100 (FSDP
+  EP1 (8× B300, batch 4, GC off; 23,590 GC on) and 13,239 at EP8 (batch 4, GC on, 48 GiB; 2026-10-05 at commit 0e9a51172). NeMo AutoModel reports 13,058 on 8× H100 (FSDP
   without EP, mock data, forced-balanced routing). Megatron-LM on the same 8× B300 in a separate batch-2, GC-off
   sweep: OOM at EP1, where Halo runs 27,707 at 158 GiB peak; 13,932 vs Halo 21,642 at EP2 (246 GB vs
   104 GiB); 14,734 vs 11,856 at EP8 (Megatron ahead there; 104 GB vs 58 GiB). Halo's peaks are

diff --git a/skills/optimize/SKILL.md b/skills/optimize/SKILL.md
@@ -43,7 +43,7 @@ These fire automatically; mention them only to confirm, not as new advice. Figur
   where the step is expert-GEMM and all-to-all bound. FA2 is the slow outlier on B300.
 - **AdamWBF16 + stochastic rounding** — auto from `bf16: true`; half the per-param state of fp32 AdamW at
   a loss curve that tracks the fp32 master. Auto-OFF under replicated DDP.
-- **CDMC=1** — baked into the image env for multi-group EP correctness; no measurable throughput effect.
+- **CDMC=1** — baked into the image env for multi-group EP correctness; it costs no throughput.
 - **Atomic-free expert permute** — auto on every grouped-GEMM MoE path; win grows with sequence
   length (+24% on gpt-oss-20b EP8).
 - **Fused MoE path** — fused GLU (`HALO_FUSED_GLU`) on every expert and dense-MLP combine, and the
